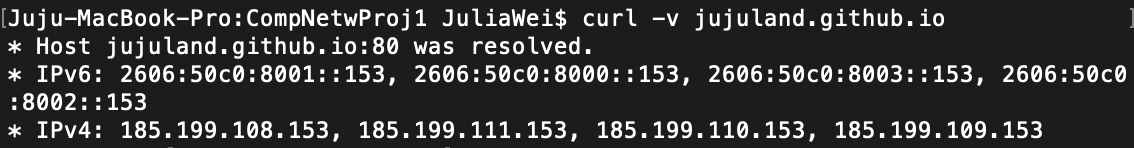
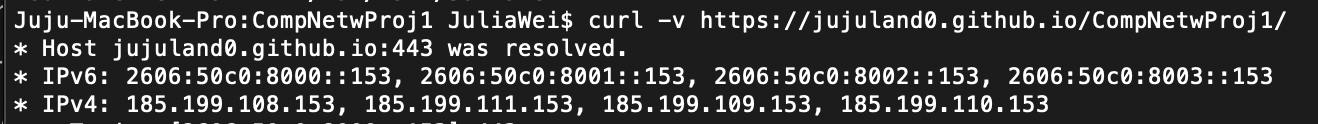
project 2

diff --git a/protocols.html b/protocols.html
@@ -16,10 +16,24 @@
 		<a href="protocols.html">Protocols</a>
 	</nav>
 
-	<p>Screenshot of my site using https : </p>
-	<a href="https.png"><img src="https.png" alt="https screenshot"></a>
+	<a href="https://cdn.jsdelivr.net/gh/jujuland0/CompNetwProj1@main/https.png" target="_blank">
+		<img src="https://cdn.jsdelivr.net/gh/jujuland0/CompNetwProj1@main/https.png" 
+			alt="HTTPS screenshot" 
+			loading="lazy">
+	</a>
 
 	<p>The  status code of 200 under the requested html stylesheet and png show that it is working correctly.</p>
 
+	<h2>My website implements HTTPS from Github pages. This encrypts traffic between the client browser and the server. This protects the data from being intercepted and read by unauthorized parties. I verify https by checking the padlock in the browser. This means my site receives a valid SSL certificate.</h2>
+
+	<p>Screenshot of the implementation of https : </p>
+	<!-- <a href="https.png"><img src="httpsImplementation.png" alt="https implementation screenshot"></a> -->
+	<a href="https://cdn.jsdelivr.net/gh/jujuland0/CompNetwProj1@main/httpsImplementation.png" target="_blank">
+  <img src="https://cdn.jsdelivr.net/gh/jujuland0/CompNetwProj1@main/httpsImplementation.png" 
+       alt="HTTPS screenshot" 
+       loading="lazy">
+</a>
+
 </body>
 </html>
+

diff --git a/index.html b/index.html
@@ -7,7 +7,7 @@
 	<link rel="stylesheet" href="style.css">
 </head>
 <body>
-	<h1>Computer Networking Project 1 Homepage</h1>
+	<h1>Computer Networking Project 1 and 2 Homepage</h1>
 
 	<nav>
 		<a href="index.html">Home</a>
@@ -16,7 +16,22 @@
 		<a href="protocols.html">Protocols</a>
 	</nav>
 
-	<p>This is the homepage for Computer Networking Project 1.</p>
+	<p>This is the homepage for Computer Networking Project 1 and also 2.</p>
+
+	<h2>Here is an XSS Protection Demo : </h2>
+	<p>Input text below to be sanitized by DOMPurify</p>
+	<input type="text" id="userInput" placeholder="Enter text here">
+	<button onclick="sanitizeInput()">Submit</button>
+
+	<p>Sanitized Output : <span id="sanitizedOutput"></span></p>
+	<script src="https://cdn.jsdelivr.net/npm/dompurify@2.2.0/dist/purify.min.js"></script>
+	<script>
+		function sanitizeInput() {
+			const userInput = document.getElementById('userInput').value;
+			const sanitizedOutput = DOMPurify.sanitize(userInput);
+			document.getElementById('sanitizedOutput').textContent = sanitizedOutput;
+		}
+	</script>
 
 </body>
 </html>

diff --git a/ipaddressing.html b/ipaddressing.html
@@ -3,7 +3,7 @@
 <head>
 	<meta charset="UTF-8">
 	<meta name="viewport" content="width=device-width, initial-scale=1.0">
-	<title>Project 1</title>
+	<title>Project 1 and 2</title>
 	<link rel="stylesheet" href="style.css">
 </head>
 <body>
@@ -17,10 +17,16 @@
 	</nav>
 
 	<p>I check the IP address using curl -v : </p>
-	<a href="ipaddressing.png"><img src="ipaddressing.png" alt="curl -v output"></a>
+	<a href="https://cdn.jsdelivr.net/gh/jujuland0/CompNetwProj1@main/ipaddressing.png" target="_blank">
+		<img src="https://cdn.jsdelivr.net/gh/jujuland0/CompNetwProj1@main/ipaddressing.png" 
+			alt="ipaddressing output" 
+			loading="lazy">
+	</a>
 
 	<p>My site has both an IPv4 and IPv6 address. This is so that both can be reached by a client device.</p>
 	<p>Usually IPv6 will be chosen but if not IPv4 will be used automatically. In essence, this ensures compatibility with old and new, mobile and desktop devices.</p>
+
+	<p>My site already has IPv6 support due to the use of GitHub Pages, which supports both IPv4 and IPv6.</p>
 
 </body>
 </html>

diff --git a/style.css b/style.css
@@ -1,4 +1,4 @@
-* {
+/* * {
 	margin: 0;
 	padding: 0;
 	box-sizing: border-box;
@@ -50,4 +50,7 @@ main {
 img {
 	max-width: 75%;
 	height: auto;
-}
+} */
+
+/* MINIFIED CSS */
+*{margin:0;padding:0;box-sizing:border-box}body{font-family:Arial,sans-serif;line-height:1.6;padding:20px;color:#333;background-color:#f5f7fb}header{background:#1f2937;padding:20px 0}nav{max-width:1000px;margin:auto;display:flex;justify-content:center;gap:30px}nav a{color:#000;text-decoration:none;font-size:18px;font-weight:500;transition:color .2s}nav a:hover{color:#60a5fa}main{max-width:900px;margin:40px auto;padding:40px;background:#fff;border-radius:10px;box-shadow:0 5px 20px rgba(0,0,0,.75)}img{max-width:75%;height:auto}

diff --git a/dns.html b/dns.html
@@ -23,7 +23,11 @@
 		<li>If the browser does not have the IP stored in cache, the OS DNS cache is checked.</li>
 		<ul>
 			<li>Here, I have checked the OS DNS cache using <code>nslookup</code>.</li>
-			<a href="nslookup.png"><img src="nslookup.png" alt="nslookup output"></a>
+			<a href="https://cdn.jsdelivr.net/gh/jujuland0/CompNetwProj1/nslookup.png" target ="_blank">
+				<img src="https://cdn.jsdelivr.net/gh/jujuland0/CompNetwProj1@main/nslookup.png"
+				alt="nslookup output"
+				loading = "lazy">
+			</a>
 		</ul>
 		<li>Finally, it asks a recursive resolver for the IP address, which will be provided by either the ISP of the user, Google DNS, or Cloudflare DNS.</li>
 		<ul>
